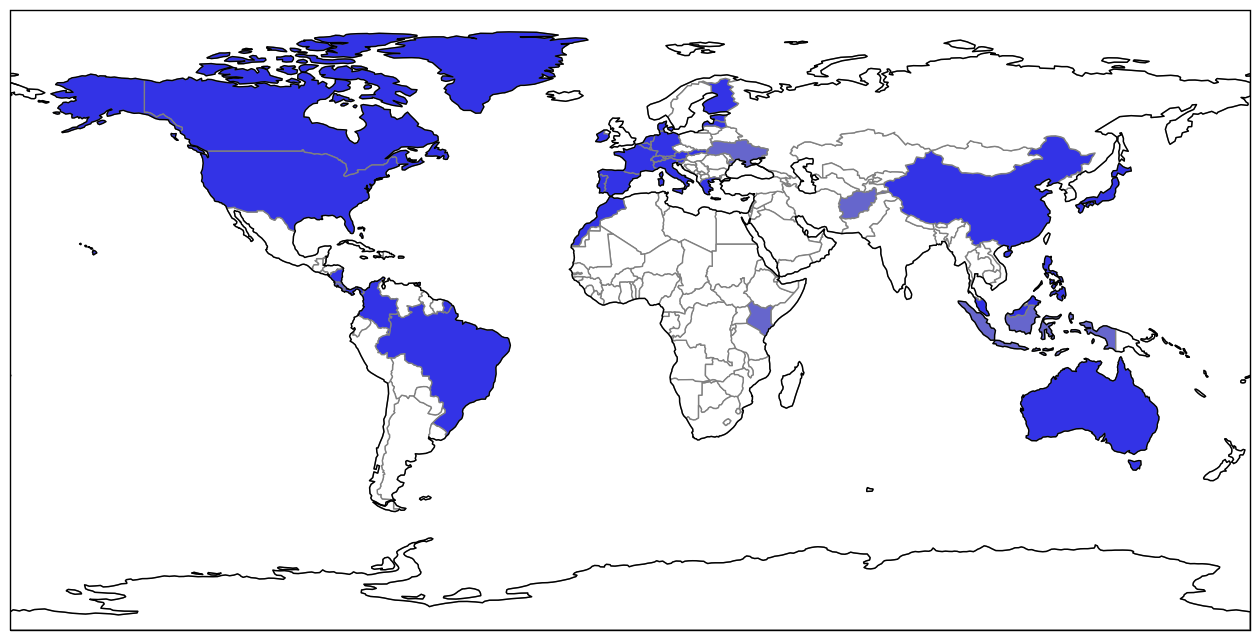
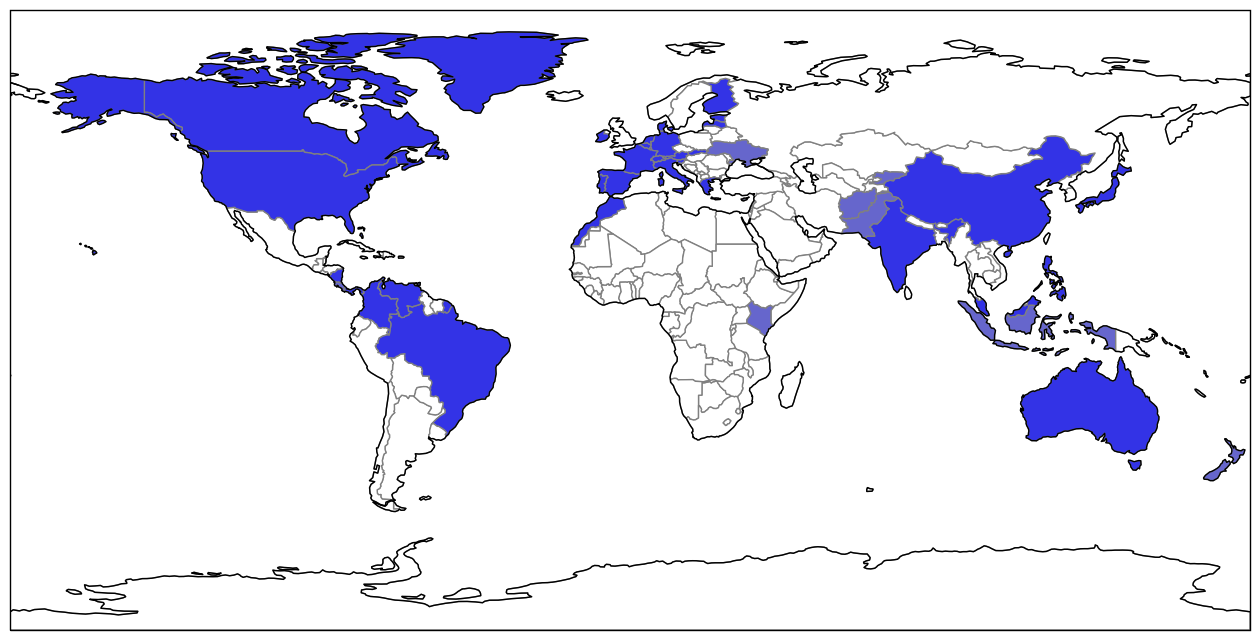
Add 5 new countries
India, Kyrgyzstan, New Zealand, Pakistan, and Venezuela

Changed region(s): [[0.65, 0.25, 0.7738, 0.4375], [0.2786, 0.4375, 0.3405, 0.5], [0.9595, 0.6875, 0.9905, 0.75]]

diff --git a/insert.py b/insert.py
@@ -44,7 +44,7 @@ def parse_args():
 def validate(args, country):
     """ Checks that the denomination exists. """
     assert args.denomination in country['denominations'], ("Denomination "
-        "does not exist")
+        "%s does not exist" % args.denomination)
 
 
 def create_currency_unit(args):

diff --git a/README.rst b/README.rst
@@ -98,6 +98,10 @@ Japan
 While the sen was historically one hundredth of a yen, and the rin was one thousandth of a yen, they were both removed from circulation in 1953.
 The 5 sen coin that I have was only minted in 1941-1942.
 
+Kyrgyzstan
+''''''''''
+The 1 tyiyn note that I have is technically legal tender, but it's worth such a tiny fraction of a cent that I'm counting it as obsolete.
+
 Macau
 '''''
 Macau is also spelled Macao, and since Natural Earth uses this name, I have its long name saved as "Macao".
@@ -110,6 +114,12 @@ Nicaragua
 '''''''''
 The 1 centavo bill that I have doesn't have a date on it, but these bills were only printed between 1991 and 1994, so I put it in as 1991.
 While it's technically still legal tender, it's worth less than a cent, so it's practically obsolete.
+
+Pakistan
+''''''''
+The Pakistani rupee was originally subidivded into 16 annas, each of which was further subidivided into 4 pice, each of which was further subdivided into 3 pie.
+In 1961 though, the currency was decimalised, with one rupee being subdivided into 100 pice.
+Since all of my coins are older than 1961, I have the pre-decimalization subdivision scheme encoded, but I'll need to fix that up if I ever get any new coins.
 
 Philippines
 '''''''''''
